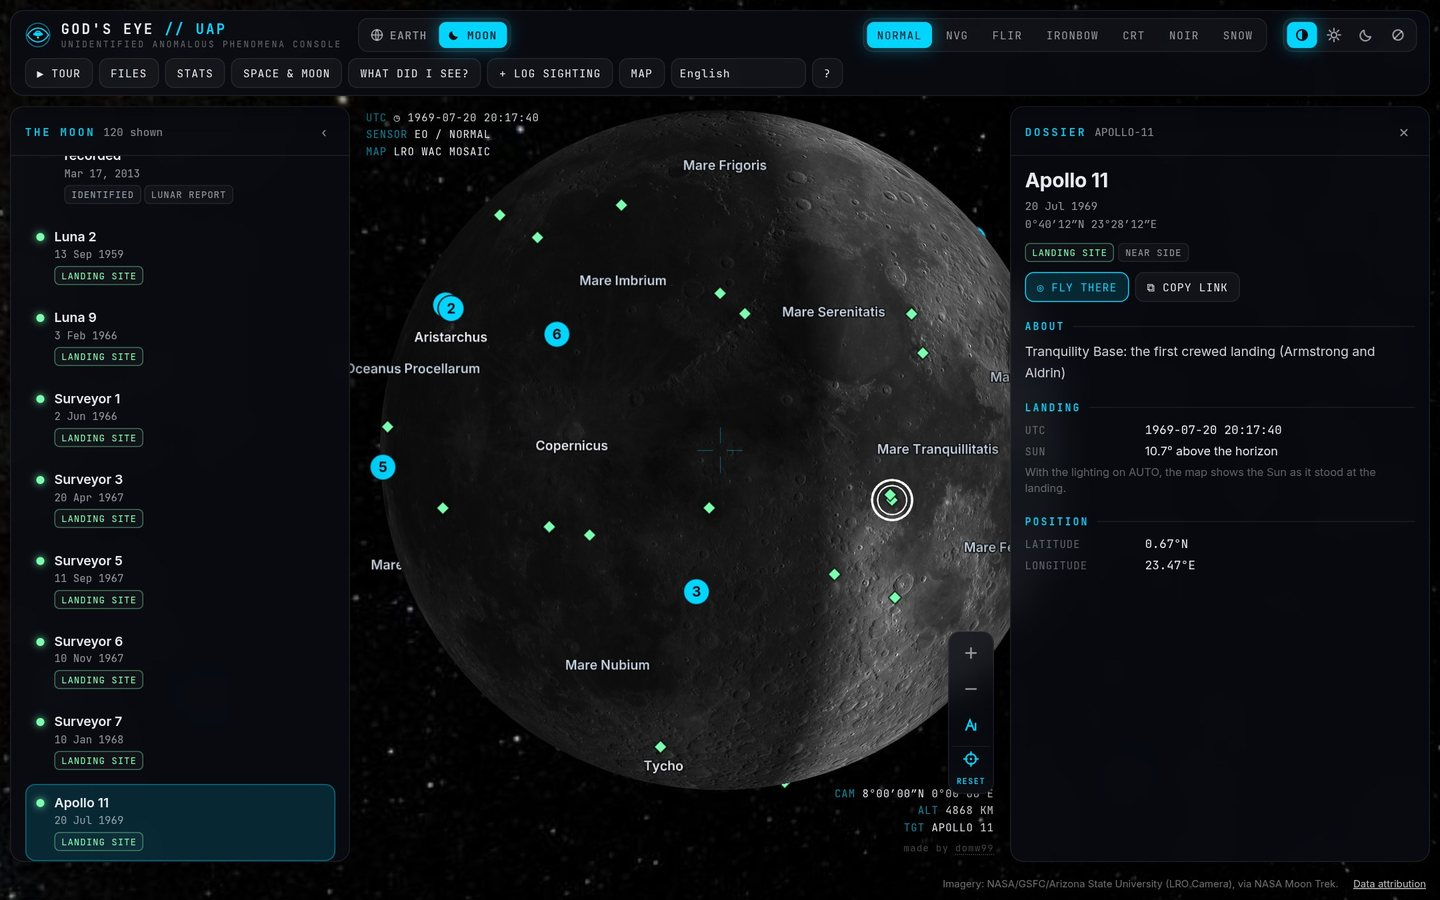
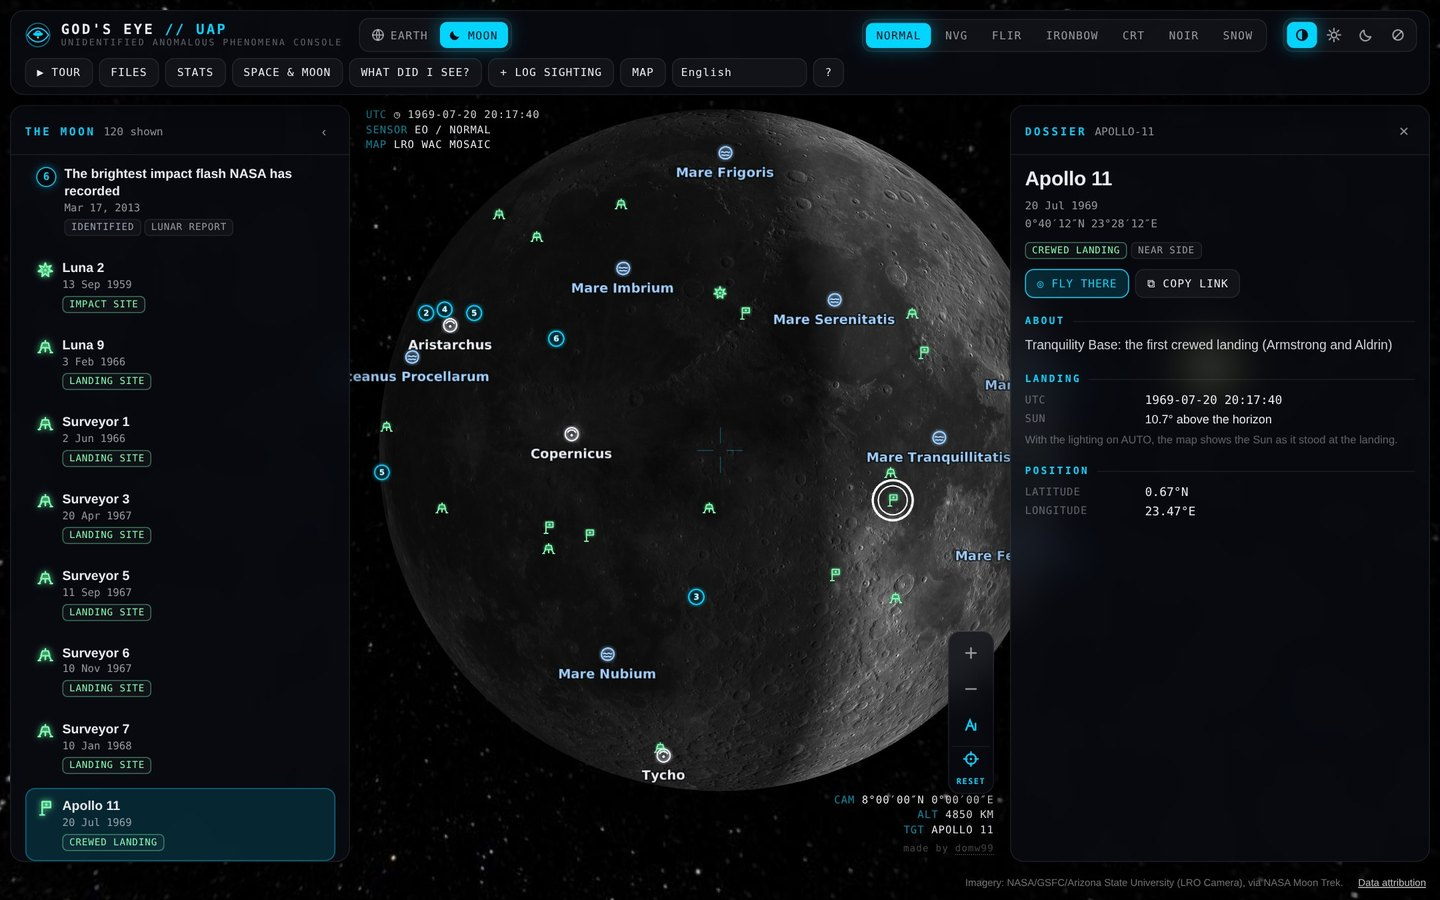
1.6: notes, a "what's new" note, and README pictures of the Moon's symbols
- Release notes for 1.6: the Moon's map symbols, the Moon map fixes and
  the round of translations and fixes.
- Returning visitors hear once about the Moon's symbols; anyone who
  missed 1.5's note also hears about the 13 new cases. Translated into
  all 15 languages.
- README: a bullet on the Moon's symbols, and the four Moon pictures
  (the whole Moon, Taurus-Littrow, the Moon lit for Apollo 11, and the
  Space & Moon dialog) retaken with the new symbols and pins, with their
  descriptions updated. The NASA Moon Trek tiles were fetched by the
  picture script itself and handed to the page.

Claude-Session: https://claude.ai/code/session_01YaFXtAqDSc1NSu64ZMphwN

diff --git a/src/main.js b/src/main.js
@@ -1775,7 +1775,7 @@ function closeWelcome() {
   } catch {}
 }
 // Returning visitors hear once about what changed since they were here.
-const RELEASE = '1.5';
+const RELEASE = '1.6';
 const RELEASE_KEY = 'gods-eye-uap:release';
 function maybeWelcome() {
   let seen = false;
@@ -1788,7 +1788,8 @@ function maybeWelcome() {
   if (navigator.webdriver) return;
   if (!seen && !location.hash && !state.selected) welcome.hidden = false;
   else if (seen && release !== RELEASE)
-    toast('New: 13 more cases, 161 in all, from the 1913 meteor procession to the 2024 drones over U.S. bases in England', 7000);
+    // Someone who saw 1.5's note hears only about the Moon; anyone from before also hears about the cases.
+    toast(release === '1.5' ? t('New: the Moon has map symbols of its own, for the landings, seas, craters, mountains and reports') : t('New: 13 more cases, 161 in all, and map symbols of its own on the Moon'), 7000);
 }
 welcome.addEventListener('click', (e) => {
   const b = e.target.closest('[data-welcome]');

diff --git a/README.md b/README.md
@@ -237,11 +237,11 @@ The pins are placed by a mapping fitted to known craters on the photograph (Greg
 
 <sub><b>New in 1.3 and 1.4:</b> the Moon beside the Earth, Space & Moon, and 10 more cases. <a href="docs/media/whats-new-1.4.mp4">▶ Watch the 34-second video (MP4)</a></sub>
 
-<img src="docs/media/moon-map.jpg" alt="The Moon in the app: the whole Moon on a globe with the seas and craters named, the landing sites as green diamonds and the lunar reports as numbered pins, with the list of places and its layers on the left, the HUD and the map controls, under the same top bar as the Earth with EARTH | MOON switched to MOON" width="100%" />
+<img src="docs/media/moon-map.jpg" alt="The Moon in the app: the whole Moon on a globe with the seas and craters named and marked with their symbols, flags at the Apollo landing sites, landers at the robotic ones and the lunar reports as numbered rings (three side by side at Aristarchus), with the list of places and its layers on the left, the HUD and the map controls, under the same top bar as the Earth with EARTH | MOON switched to MOON" width="100%" />
 
 <table>
 <tr>
-<td width="50%"><img src="docs/media/moon-map-close.jpg" alt="The Taurus-Littrow valley, 120 km up, with the Apollo 17 landing site marked and its dossier open on the right: landed 11 December 1972, the Sun 13° above the horizon" width="100%" /></td>
+<td width="50%"><img src="docs/media/moon-map-close.jpg" alt="The Taurus-Littrow valley, 120 km up, with the Apollo 17 landing site marked by a flag in the selection ring, the valley's own symbol below it, and the dossier open on the right: landed 11 December 1972, the Sun 13° above the horizon" width="100%" /></td>
 <td width="50%"><img src="docs/media/moon-light.jpg" alt="The whole Moon lit as the Sun stood at the Apollo 11 landing: the terminator runs just west of Tranquility Base and the western half is in the dark" width="100%" /></td>
 </tr>
 </table>
@@ -250,6 +250,7 @@ The pins are placed by a mapping fitted to known craters on the photograph (Greg
 
 - **A real globe.** Drag to turn it, scroll or pinch to zoom, from the whole Moon down to about a kilometre above the surface. It is drawn on the Moon's own ellipsoid (radius 1,737.4 km) with the **Lunar Reconnaissance Orbiter Camera** global mosaic from NASA Moon Trek, 100 metres to the pixel. If NASA's tiles can't be reached, a 2,048-pixel copy of the mosaic that ships with the app keeps the Moon turning.
 - **Layers, as on the Earth.** Lunar reports, landing sites, seas and basins, craters, and mountains and valleys each turn on and off, on the globe and in the list. **Relief** lays the laser altimeter's colour-coded heights over the photographs. 89 named places are labelled as you zoom in (the names button in the map controls, or <kbd>N</kbd>, hides them), and the 25 landing and impact sites run from Luna 2 (1959) through Apollo 11 to 17 and Chang'e 3 to 6 to Chandrayaan-3, SLIM and IM-1.
+- **Symbols, as on the Earth.** Each kind of place has its own map symbol, on the globe, in the list and in the layer switches: a flag for the six crewed Apollo landings, a lander for the 18 robotic ones, a starburst where Luna 2 struck, waves for the seas, rings for the great basins, a crater, peaks for the mountains and valleys, and a numbered ring for each report; reports at the same place (Aristarchus has three) stand side by side. The landing symbols and report pins shrink as you back away, so the whole Moon stays readable on a phone, and come back to full size as you close in.
 - **A dossier for every place and report.** Click a pin, or a row in the list, to fly there and open it on the right: what the place is and where, when a mission landed and how high the Sun stood, or for a lunar report its assessment, summary, NASA files and sources. The six reports are numbered as in Space & Moon, including the far-side one the photograph can't show (Giordano Bruno, for Gervase of Canterbury).
 - **Lit by the Sun of the moment.** With the lighting on **AUTO**, a landing site is lit as the Sun stood at the landing (Apollo 11 touched down with the Sun 10.7° up, and the map shows the terminator just west of Tranquility Base), and a report with a known night is lit for that night. **DAY** lights the Moon from where you look, **NIGHT** shows it by earthshine, and **OFF** lights it evenly. The Sun's position comes from the IAU model of the Moon's rotation; the Apollo landings come out within half a degree of their documented Sun angles.
 - **The sensor looks** (<kbd>1</kbd>–<kbd>7</kbd>: NVG, FLIR, Ironbow, CRT, Noir, Snow) work on the Moon too.

diff --git a/.github/release-notes/v1.6.md b/.github/release-notes/v1.6.md
@@ -1,0 +1,42 @@
+**The Moon gets map symbols of its own, like the Earth's layers. This release also fixes a round of bugs and translates the labels that were still in English.**
+
+### ▶ [Open the live app](https://domw99.github.io/Gods-Eye-UAPs/)
+
+**Symbols on the Moon**
+
+Every place on the Moon map now has a symbol in the same style as the Earth's archives: a dark backdrop, a glowing outline and a colour for each kind of place. The same symbols appear on the globe, in the list of places and in the layer switches. The pins in the Space & Moon dialog match them.
+
+- **A flag** for each of the six crewed Apollo landings.
+- **A lander** for each of the 18 robotic landings.
+- **A starburst** where Luna 2 struck in 1959. It used to be called a landing site; it now reads IMPACT SITE, and the Apollo sites read CREWED LANDING.
+- **Waves** for the seas, **rings** for the great basins, a **rim and central peak** for the craters, and **peaks** for the mountains and valleys.
+- **A glowing numbered ring** for each lunar report.
+
+Symbols come and go with their names as you zoom. The landing sites and reports show from afar and shrink as you back away, so the whole Moon stays readable on a phone. Apollo 12 and Surveyor 3, and Apollo 11 and Surveyor 5, would sit on top of each other from afar, so they are drawn apart there and return to their true places as you close in.
+
+**Fixes on the Moon map**
+- **Reports at the same place stand side by side.** Aristarchus has three (2, 4 and 5), and their pins used to sit on top of each other, so report 5's pin there could not be seen.
+- **Symbols at the rim are drawn whole.** The edge of the globe no longer cuts them in half.
+- **Places past the rim are hidden completely.** Before, half a name could poke out into space, such as a lone "Mare" beside the Moon.
+- **The search box's hint fits.** It no longer ends in a cut-off "(".
+
+**Other fixes**
+- **Translations:**
+  - About 60 labels that were still in English in the other 15 languages are now translated, including:
+    - the hover labels on the globe (groups of markers, Blue Book, GEIPAN, MUFON, satellites, airspace, earthquakes and launch sites)
+    - the airspace rows
+    - the journal-search notes
+    - the Blue Book and civilian report titles
+    - the satellite sky-check line
+    - the image viewer
+    - the map's data attribution box
+    - the screen-reader labels of the sky chart and statistics
+  - Counts take the right plural form in every language.
+- **Loading:**
+  - A layer that fails to load no longer stops the other layers from loading.
+  - Switching the earthquake layer quickly on and off fetches the feed only once.
+- **Near me** keeps its place name when you add the civilian reports. It used to read the name back from the page title, which broke in other languages.
+- **On the Moon,** <kbd>M</kbd> opens the map settings, as the MAP button does.
+- **Screen readers:** the case panel's collapse button says whether the panel is open.
+
+<sub>made by [domw99](https://github.com/domw99)</sub>
